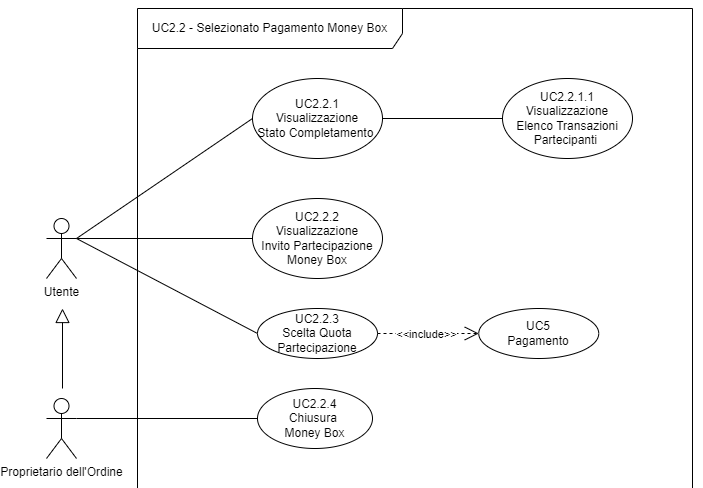
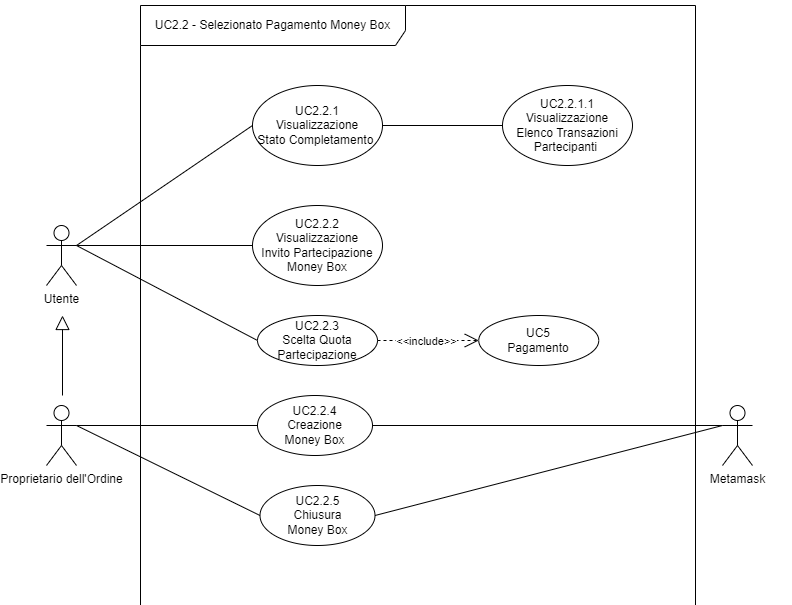
ar fix finali

diff --git a/src/analisi_dei_requisiti/sezioni/casi_uso.tex b/src/analisi_dei_requisiti/sezioni/casi_uso.tex
@@ -15,7 +15,7 @@ L'utente generico ha poi due specializzazioni possibili: l'utente proprietario d
     \caption{Diagramma degli Attori.}
   \end{figure}
 
-\subsection{UC1 - Inizializzazione delle Transazioni}
+\subsection{UC1 - Inizializzazione della Transazione}
 
 \begin{figure}[H]
     \centering
@@ -25,7 +25,6 @@ L'utente generico ha poi due specializzazioni possibili: l'utente proprietario d
 
 \begin{itemize}
     \item Attore primario: E-Commerce;
-    \item Attore secondario: utente proprietario dell'ordine;
     \item Precondizioni: il sistema è raggiungibile e funzionante;
     \item Postcondizioni: la transazione viene caricata nel sistema, l'utente viene reindirizzato alla pagina di checkout;
     \item Scenario principale: L'E-Commerce delega il pagamento comunicando la somma richiesta e l'indirizzo del destinatario.
@@ -86,10 +85,11 @@ L'utente generico ha poi due specializzazioni possibili: l'utente proprietario d
     \item Scenario principale:
     \begin{enumerate}
         \item l'utente seleziona pagamento MoneyBox come metodo di pagamento;
+        \item l'utente conferma la creazione della MoneyBox [UC2.2.4];
         \item l'utente visualizza lo stato di completamento [UC2.2.1];
         \item l'utente visualizza l'invito alla partecipazione della MoneyBox [UC2.2.2];
         \item l'utente, opzionalmente, partecipa alla MoneyBox [UC2.2.3];
-        \item l'utente proprietario dell'ordine, opzionalmente, può chiudere una MoneyBox [UC2.2.4].
+        \item l'utente proprietario dell'ordine, opzionalmente, può chiudere una MoneyBox [UC2.2.5].
         \end{enumerate}
     \end{itemize}
 
@@ -128,16 +128,33 @@ L'utente generico ha poi due specializzazioni possibili: l'utente proprietario d
     \end{enumerate}
     \end{itemize}
 
-    \subsubsection{UC2.2.4 - Chiusura MoneyBox}
+    \subsubsection{UC2.2.4 - Creazione MoneyBox}
+
+    \begin{itemize}
+        \item Attore primario: utente proprietario dell'ordine;
+        \item Attore secondario: Metamask;
+        \item Precondizioni: l'utente ha connesso il proprio Metamask [UC4] e ha selezionato il pagamento MoneyBox;
+        \item Postcondizioni: l'utente ha creato una MoneyBox;
+        \item Scenario principale:
+        \begin{enumerate}
+            \item l'utente visualizza il pop-up di Metamask;
+            \item l'utente conferma l'operazione all'interno del pop-up;
+            \item l'utente viene reindirizzato alla pagina con i dettagli della MoneyBox.
+        \end{enumerate}
+        \end{itemize}
+
+    \subsubsection{UC2.2.5 - Chiusura MoneyBox}
 
     \begin{itemize}
     \item Attore primario: utente proprietario dell'ordine;
+    \item Attore secondario: Metamask;
     \item Precondizioni: l'utente ha connesso il proprio Metamask [UC4];
     \item Postcondizioni: l'utente ha chiuso la MoneyBox e i fondi vengono restituiti;
     \item Scenario principale:
     \begin{enumerate}
-        \item l'utente chiude la MoneyBox;
-        \item viene annullata ogni transazione e quindi effettuati i rimborsi.
+        \item l'utente visualizza il pop-up di Metamask;
+        \item l'utente conferma l'operazione all'interno del pop-up;
+        \item viene annullato ogni versamento, effettuati i rimborsi e la MoneyBox viene chiusa.
     \end{enumerate}
     \end{itemize}
 
@@ -156,7 +173,7 @@ L'utente generico ha poi due specializzazioni possibili: l'utente proprietario d
     \item Scenario principale:
     \begin{enumerate}
         \item l'utente visualizza il totale dell'ordine;
-        \item l'utente visualizza un elenco degli item ordinati.
+        \item l'utente visualizza l'indirizzo del venditore.
     \end{enumerate}
 \end{itemize}
 
@@ -301,7 +318,7 @@ L'utente generico ha poi due specializzazioni possibili: l'utente proprietario d
 
 \begin{itemize}
     \item Attore primario: utente generico;
-    \item Precondizioni: l'utente ha rifiutato la transazione;
+    \item Precondizioni: la transazione non è andata a buon fine;
     \item Postcondizioni: l'utente ha visualizzato l'errore e la transazione fallisce;
     \item Scenario principale:
     \begin{enumerate}
@@ -320,12 +337,13 @@ L'utente generico ha poi due specializzazioni possibili: l'utente proprietario d
 
 \begin{itemize}
     \item Attore primario: utente proprietario dell'ordine;
-    \item Attore secondario: utente venditore;
+    \item Attore secondario: utente venditore, Metamask;
     \item Precondizioni: il sistema ha generato il codice di sblocco [UC5.2];
     \item Postcondizioni: l'utente proprietario ha sbloccato l'ordine e il denaro è stato trasferito all'utente venditore;
     \item Scenario principale:
     \begin{enumerate}
         \item l'utente inserisce il codice di sblocco;
+        \item l'utente conferma la transazione sul pop-up Metamask;
         \item il sistema trasferisce il denaro sul wallet dell'utente venditore.
     \end{enumerate}
 \end{itemize}

diff --git a/src/analisi_dei_requisiti/sezioni/requisiti.tex b/src/analisi_dei_requisiti/sezioni/requisiti.tex
@@ -45,8 +45,7 @@ Il gruppo \groupName{} per classificare e assegnare i requisiti del capitolato h
         \hline
         R1F5.1 & Obbligatorio & L'utente che ha scelto il metodo di pagamento unico deve pagare interamente la somma richiesta. & Verbale Esterno 15.11.21 \\
         R2F5.2 & Desiderabile & L'utente che partecipa al pagamento MoneyBox deve poter pagare una parte della somma richiesta. & Verbale Esterno 15.11.21 \\
-        R1F6 & Obbligatorio & Si deve trattenere una fee percentuale destinata al fondo ShopChain. & Capitolato \\
-        R1F6.1 & Obbligatorio & Parte della fee sarà destinata al pagamento delle gas fee\glo{}. & Capitolato \\
+        R3F6 & Opzionale & La piattaforma deve trattenere una piccola somma in percentuale di un ordine destinata al fondo ShopChain & Verbale Esterno 15.11.21 \\
         R1F7 & Obbligatorio & Il proprietario dell'ordine deve poter confermare la ricezione e quindi sbloccare i fondi dallo Smart Contract. & Capitolato \\
         R1F8 & Obbligatorio & Il venditore deve poter visualizzare le transazioni. & Capitolato \\
         R2F8.1 & Desiderabile & Il venditore deve poter visualizzare le transazioni non completate. & Capitolato \\
@@ -119,7 +118,9 @@ Il gruppo \groupName{} per classificare e assegnare i requisiti del capitolato h
 
 \subsection{Requisiti prestazionali} \label{subsection:requisiti_prestazionali}
 
-L'azienda non ha posto requisiti di tipo prestazionale per la applicazione,
-nonostante questo, il gruppo presterà attenzione alle prestazioni durante lo sviluppo.
+L'azienda non ha posto requisiti di tipo prestazionale per la applicazione.
+Nonostante questo, a seguito di un approfondito studio e confronto riguardo le possibili blockchain da utilizzare\footnote{Presente in verbale\_interno\_2021\_11\_16.pdf}, 
+è stata selezionata Fantom proprio per il suo veloce algoritmo di consenso, il quale si presta perfettamente a soddisfare piccoli pagamenti 
+come nel caso di un E-Commerce.
 
 \clearpage
